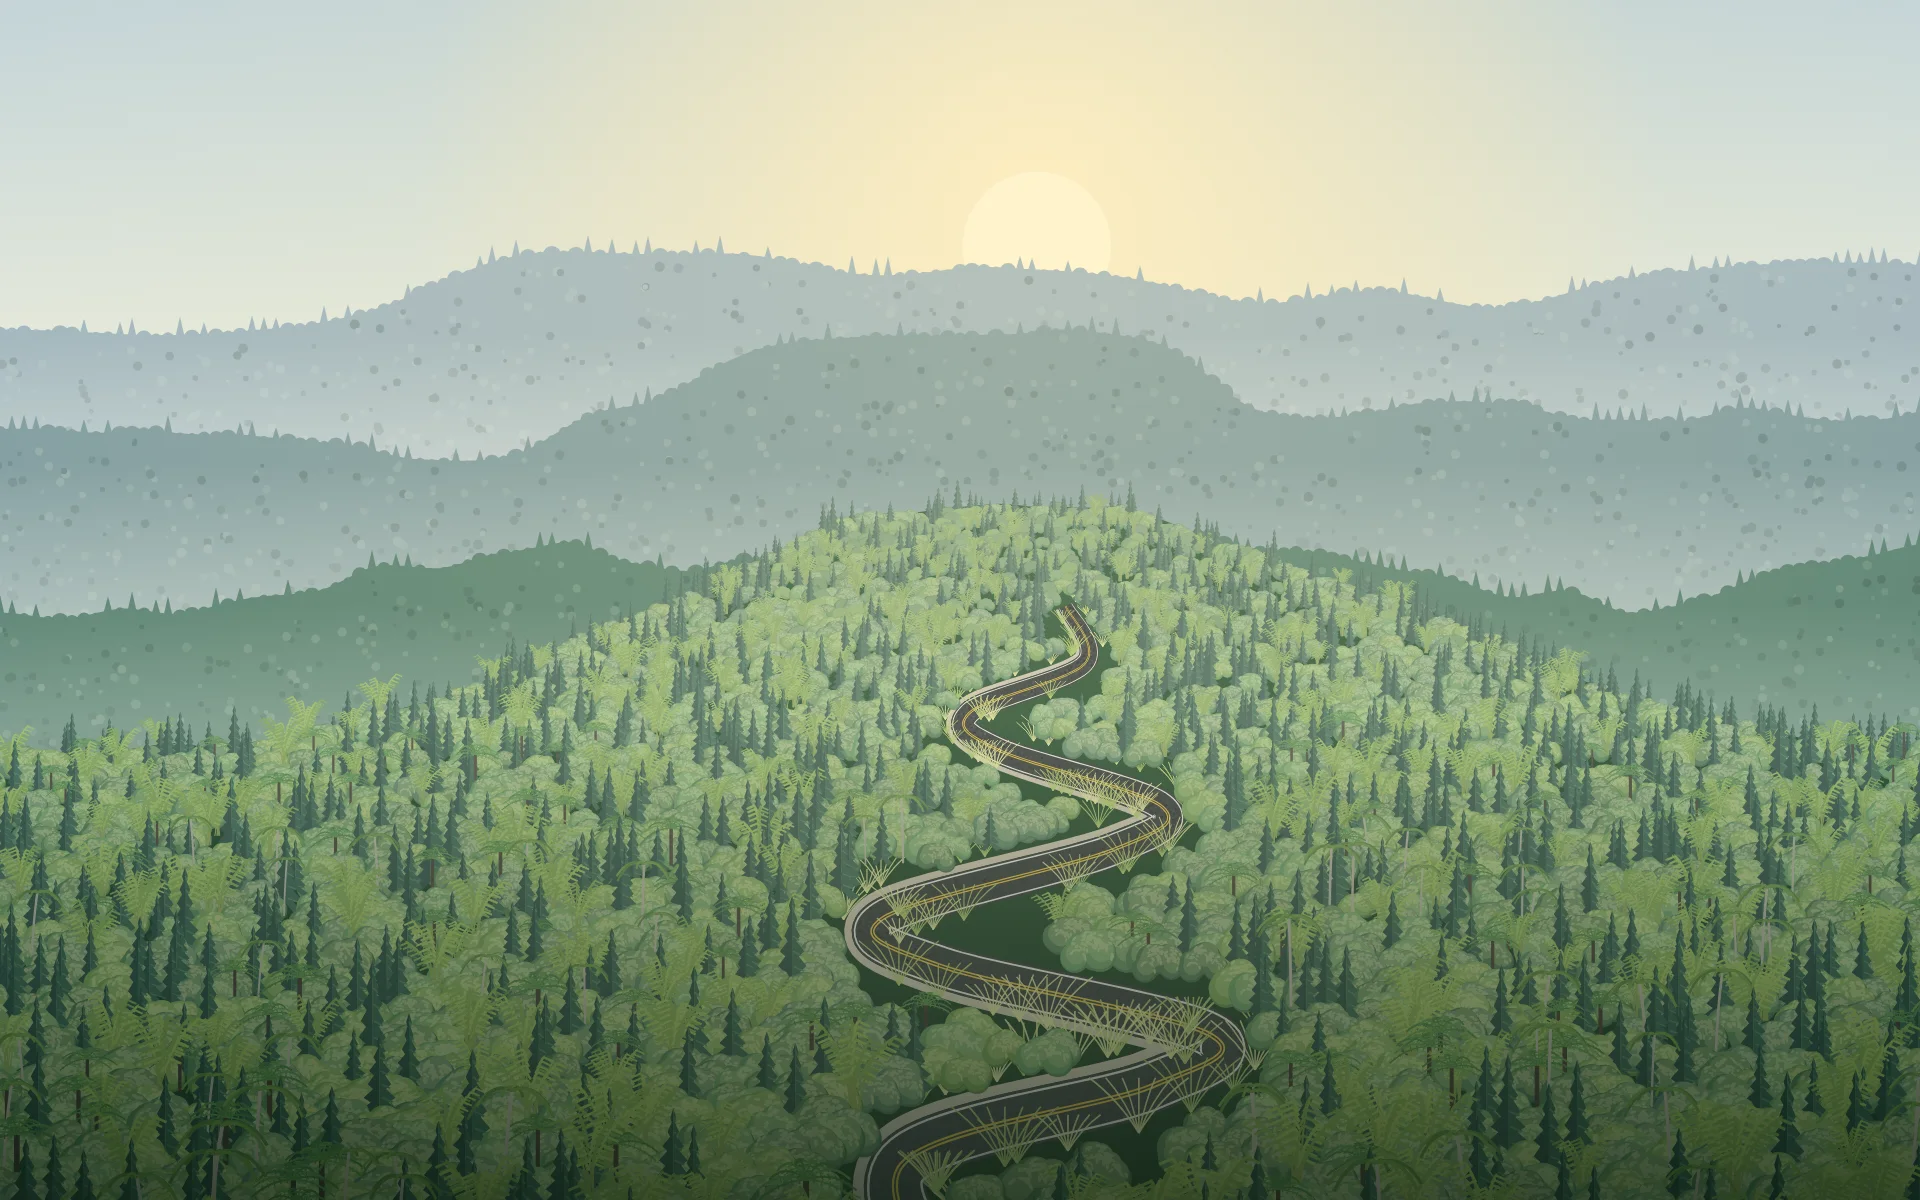
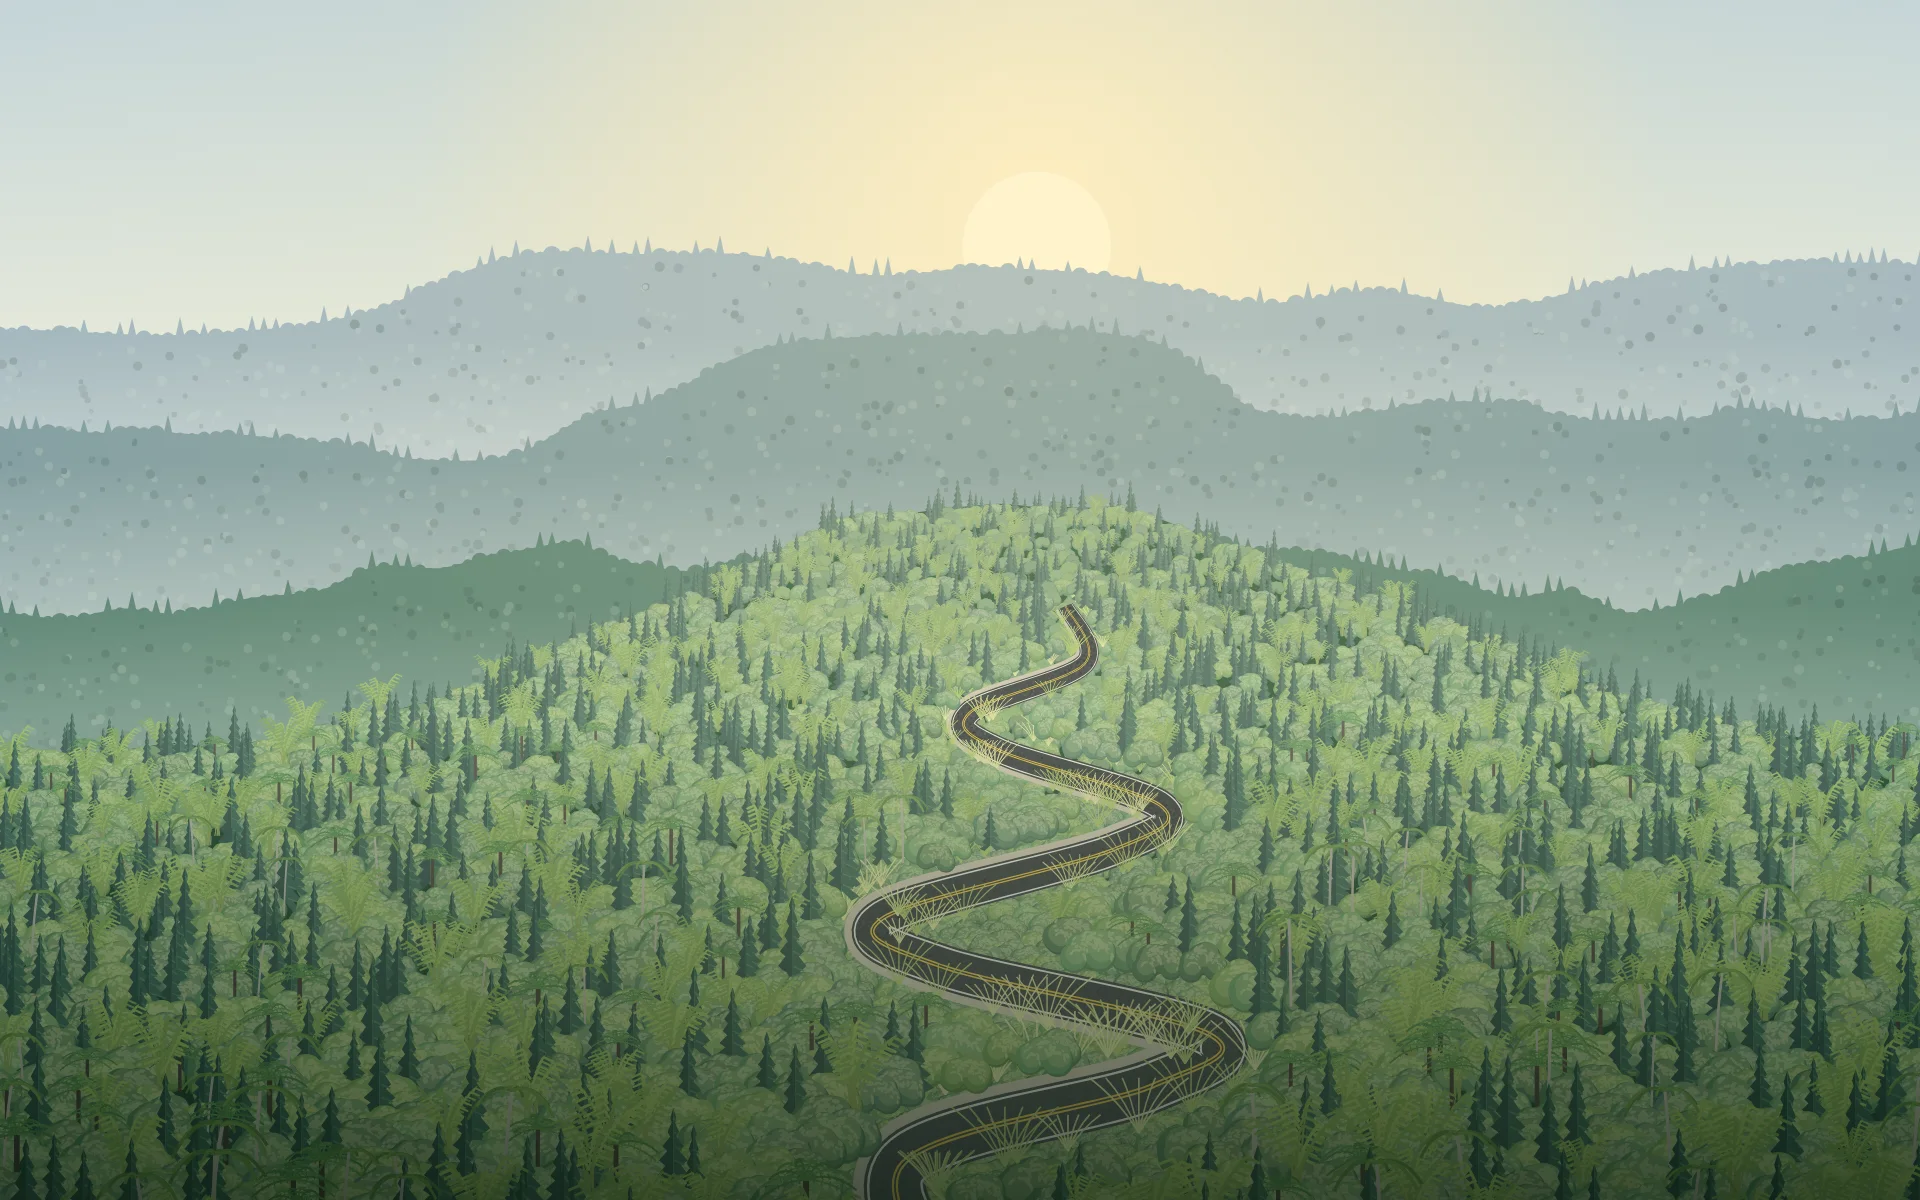
Full-page spinner for /routes and /profile, drop briefing footnote, landing scene fixes (#39)
- Revert route chip spinner (#37); add loading.tsx for /routes and /profile
- Remove data-source footnote from dashboard briefing
- Landing scene: roadside shrubs between switchbacks, light the occluding tree layer, animate sun rays

diff --git a/strava-route-system/apps/web/scripts/landing-scene/scene.html b/strava-route-system/apps/web/scripts/landing-scene/scene.html
@@ -163,6 +163,21 @@
       for (let i = S.length - 1; i >= 0; i--) { const p = S[i], r = rw(p[1]); P.lineTo(p[0] + N[i][0] * r * b, p[1] + N[i][1] * r * b); }
       P.closePath(); return P;
     };
+    // 路旁灌叢：樹木會避開路面，彎道之間只剩平塗的深色地面，先鋪一層矮樹冠，再由路面蓋過去
+    let minX = 1e9, maxX = -1e9, minY = 1e9; S.forEach(([x, y]) => { minX = Math.min(minX, x); maxX = Math.max(maxX, x); minY = Math.min(minY, y); });
+    const roadDist = (x, y) => { let best = 1e9, by = 0; for (const p of S) { const d = Math.hypot(p[0] - x, p[1] - y); if (d < best) { best = d; by = p[1]; } } return [best, rw(by)]; };
+    const brush = [];
+    for (let y = minY - 20; y < 1080; y += 9) {
+      const d = clamp01((y - 430) / 620), step = lerp(7, 18, d);
+      for (let x = minX - 130; x < maxX + 130; x += step) {
+        const jx = x + (hash(x * 1.3 + y * 0.7) - 0.5) * step, jy = y + (hash(x * 0.37 + y * 2.1) - 0.5) * 8;
+        if (jy < slopeTop(jx) + 4) continue;
+        const [dist, r0] = roadDist(jx, jy);
+        if (dist > r0 * 2.6 + 30) continue;
+        brush.push([jy, jx, lerp(5, 19, clamp01((jy - 430) / 620)) * (0.75 + hash(jx + jy * 3.1) * 0.5)]);
+      }
+    }
+    brush.sort((a, b) => a[0] - b[0]).forEach(([y, x, r], i) => broadleaf(c, x, y, r, (j) => hash(i * 7.1 + j * 2.9 + 500), (1 - clamp01((y - 430) / 620)) * 0.45));
     c.fillStyle = "#cbc6b2"; c.fill(bandPath(-0.68, -0.5));
     const road = bandPath(-0.5, 0.5);
     c.fillStyle = "#40484a"; c.fill(road);
@@ -220,9 +235,10 @@
     c.fillStyle = shade(c); c.fillRect(0, 600, W, 400);
     fc.globalCompositeOperation = "source-atop"; fc.fillStyle = shade(fc); fc.fillRect(0, 600, W, 400); fc.globalCompositeOperation = "source-over";
     st.front = fl;
-    const lit = c.createRadialGradient(cx0, 200, 50, cx0, 200, W * 0.6);
-    lit.addColorStop(0, "rgba(255,232,170,.2)"); lit.addColorStop(1, "rgba(255,232,170,0)");
-    c.fillStyle = lit; c.fillRect(0, 0, W, 1000);
+    const lit = (g2) => { const l = g2.createRadialGradient(cx0, 200, 50, cx0, 200, W * 0.6); l.addColorStop(0, "rgba(255,232,170,.2)"); l.addColorStop(1, "rgba(255,232,170,0)"); return l; };
+    c.fillStyle = lit(c); c.fillRect(0, 0, W, 1000);
+    // 遮擋層的樹也要打同一道光，否則比旁邊背景的樹暗，路兩側會出現一塊深色區域
+    fc.globalCompositeOperation = "source-atop"; fc.fillStyle = lit(fc); fc.fillRect(0, 0, W, 1000); fc.globalCompositeOperation = "source-over";
     st.bg = off; st.S = S; st.N = N; st.rw = rw; st.W = W; st.cx0 = cx0; st.road = road;
   }
 

diff --git a/strava-route-system/apps/web/src/components/auth/dawn-scene.ts b/strava-route-system/apps/web/src/components/auth/dawn-scene.ts
@@ -297,16 +297,24 @@ export function drawDawnFrame(
   const [sx, sy] = SUN;
   ctx.drawImage(img.bg, 0, 0, W, H);
 
-  // 光束：角度與亮度緩慢變化，整體強弱也會呼吸
+  // 光束：整束緩慢擺動，每道光各自搖曳、寬窄與亮度起伏，並有一段亮光沿著光束往外流；整體強弱也會呼吸
   const breathe = 0.75 + 0.25 * Math.sin(T * 0.16);
+  const fan = Math.sin(T * 0.05) * 0.05;
   ctx.save();
   ctx.globalCompositeOperation = "screen";
   for (let i = 0; i < 12; i++) {
-    const a = 0.15 + i * 0.255 + Math.sin(T * 0.06 + i * 0.7) * 0.05, len = 1600, spread = 0.02 + hash(i + 1) * 0.03;
-    const alpha = (0.03 + 0.035 * (0.5 + 0.5 * Math.sin(T * 0.4 + i * 1.3))) * breathe;
+    const a = 0.15 + i * 0.255 + fan + Math.sin(T * 0.22 + i * 0.7) * 0.035, len = 1600;
+    const spread = (0.02 + hash(i + 1) * 0.03) * (0.8 + 0.4 * (0.5 + 0.5 * Math.sin(T * 0.5 + i * 2.3)));
+    const alpha = (0.02 + 0.06 * (0.5 + 0.5 * Math.sin(T * 0.6 + i * 1.3))) * breathe;
+    // 沿光束的基本亮度：光源處最亮，往外漸淡
+    const base = (u: number) => (u < 0.55 ? lerp(alpha * 2.2, alpha, u / 0.55) : lerp(alpha, 0, (u - 0.55) / 0.45));
+    // 流動亮帶的位置：每道光速度相同、起點錯開，在 0.15–0.85 之間循環
+    const phase = T * 0.08 + hash(i + 7), m = 0.15 + 0.7 * (phase - Math.floor(phase));
     const grad = ctx.createLinearGradient(sx, sy, sx + Math.cos(a) * len, sy + Math.sin(a) * len);
-    grad.addColorStop(0, `rgba(255,240,200,${alpha * 2.2})`);
-    grad.addColorStop(0.55, `rgba(255,240,200,${alpha})`);
+    grad.addColorStop(0, `rgba(255,240,200,${base(0)})`);
+    grad.addColorStop(m - 0.12, `rgba(255,240,200,${base(m - 0.12)})`);
+    grad.addColorStop(m, `rgba(255,240,200,${base(m) + alpha * 1.2})`);
+    grad.addColorStop(m + 0.12, `rgba(255,240,200,${base(m + 0.12)})`);
     grad.addColorStop(1, "rgba(255,240,200,0)");
     ctx.fillStyle = grad;
     ctx.beginPath();

diff --git a/strava-route-system/apps/web/src/components/dashboard/briefing/briefing.tsx b/strava-route-system/apps/web/src/components/dashboard/briefing/briefing.tsx
@@ -28,7 +28,7 @@ export async function Briefing({
     );
   }
 
-  const { featured, alternative, routes, weatherCoverage, eventsFailed } = data;
+  const { featured, alternative, routes } = data;
   /** 換路線、換頁時帶著的行程設定 */
   const tripParams: TripParams = { depart: trip.departure?.toISOString(), activity: trip.activity };
 
@@ -50,16 +50,6 @@ export async function Briefing({
         <BriefingCard featured={featured} alternative={alternative} trip={tripParams} />
         <HazardSummary briefing={featured} trip={tripParams} />
       </div>
-      <p className="text-xs text-muted-foreground">
-        天氣：中央氣象署鄉鎮預報
-        {weatherCoverage.ok < weatherCoverage.total &&
-          `（${weatherCoverage.total - weatherCoverage.ok} 個行政區暫時取不到資料）`}
-        ・路況：TDX 即時道路事件
-        {eventsFailed === null
-          ? "（暫時取不到）"
-          : eventsFailed.length > 0 && `（${eventsFailed.join("、")}暫時取不到）`}
-        ・判讀僅供參考，出發前請再確認現場狀況。
-      </p>
     </div>
   );
 }

diff --git a/strava-route-system/apps/web/src/components/dashboard/briefing/route-switcher.tsx b/strava-route-system/apps/web/src/components/dashboard/briefing/route-switcher.tsx
@@ -2,7 +2,6 @@ import Link from "next/link";
 import { ArrowRight } from "lucide-react";
 import { cn } from "@/lib/utils";
 import { withTrip, type TripParams } from "@/lib/routes/trip";
-import { RouteChipLabel } from "./route-chip-label";
 
 /** 今日判讀只做快速切換；找路線、搜尋、篩選在路線頁 */
 const MAX_CHIPS = 5;
@@ -47,7 +46,7 @@ export function RouteSwitcher({
                     : "border-border bg-card text-muted-foreground hover:text-foreground"
                 )}
               >
-                <RouteChipLabel name={r.name} />
+                <span className="truncate">{r.name}</span>
               </Link>
             </li>
           );

diff --git a/strava-route-system/apps/web/src/app/profile/loading.tsx b/strava-route-system/apps/web/src/app/profile/loading.tsx
@@ -1,0 +1,10 @@
+import Spinner from "@/components/ui/Spinner";
+
+/** 換頁進來時，伺服器還在準備頁面的這段時間顯示整頁 spinner（同登入後轉場的樣式） */
+export default function Loading() {
+  return (
+    <div className="flex min-h-dvh items-center justify-center bg-background" role="status" aria-label="載入個人資料中">
+      <Spinner size="lg" dotClassName="bg-primary" />
+    </div>
+  );
+}

diff --git a/strava-route-system/apps/web/src/app/routes/loading.tsx b/strava-route-system/apps/web/src/app/routes/loading.tsx
@@ -1,0 +1,10 @@
+import Spinner from "@/components/ui/Spinner";
+
+/** 換頁進來時，伺服器還在準備頁面的這段時間顯示整頁 spinner（同登入後轉場的樣式） */
+export default function Loading() {
+  return (
+    <div className="flex min-h-dvh items-center justify-center bg-background" role="status" aria-label="載入路線中">
+      <Spinner size="lg" dotClassName="bg-primary" />
+    </div>
+  );
+}
